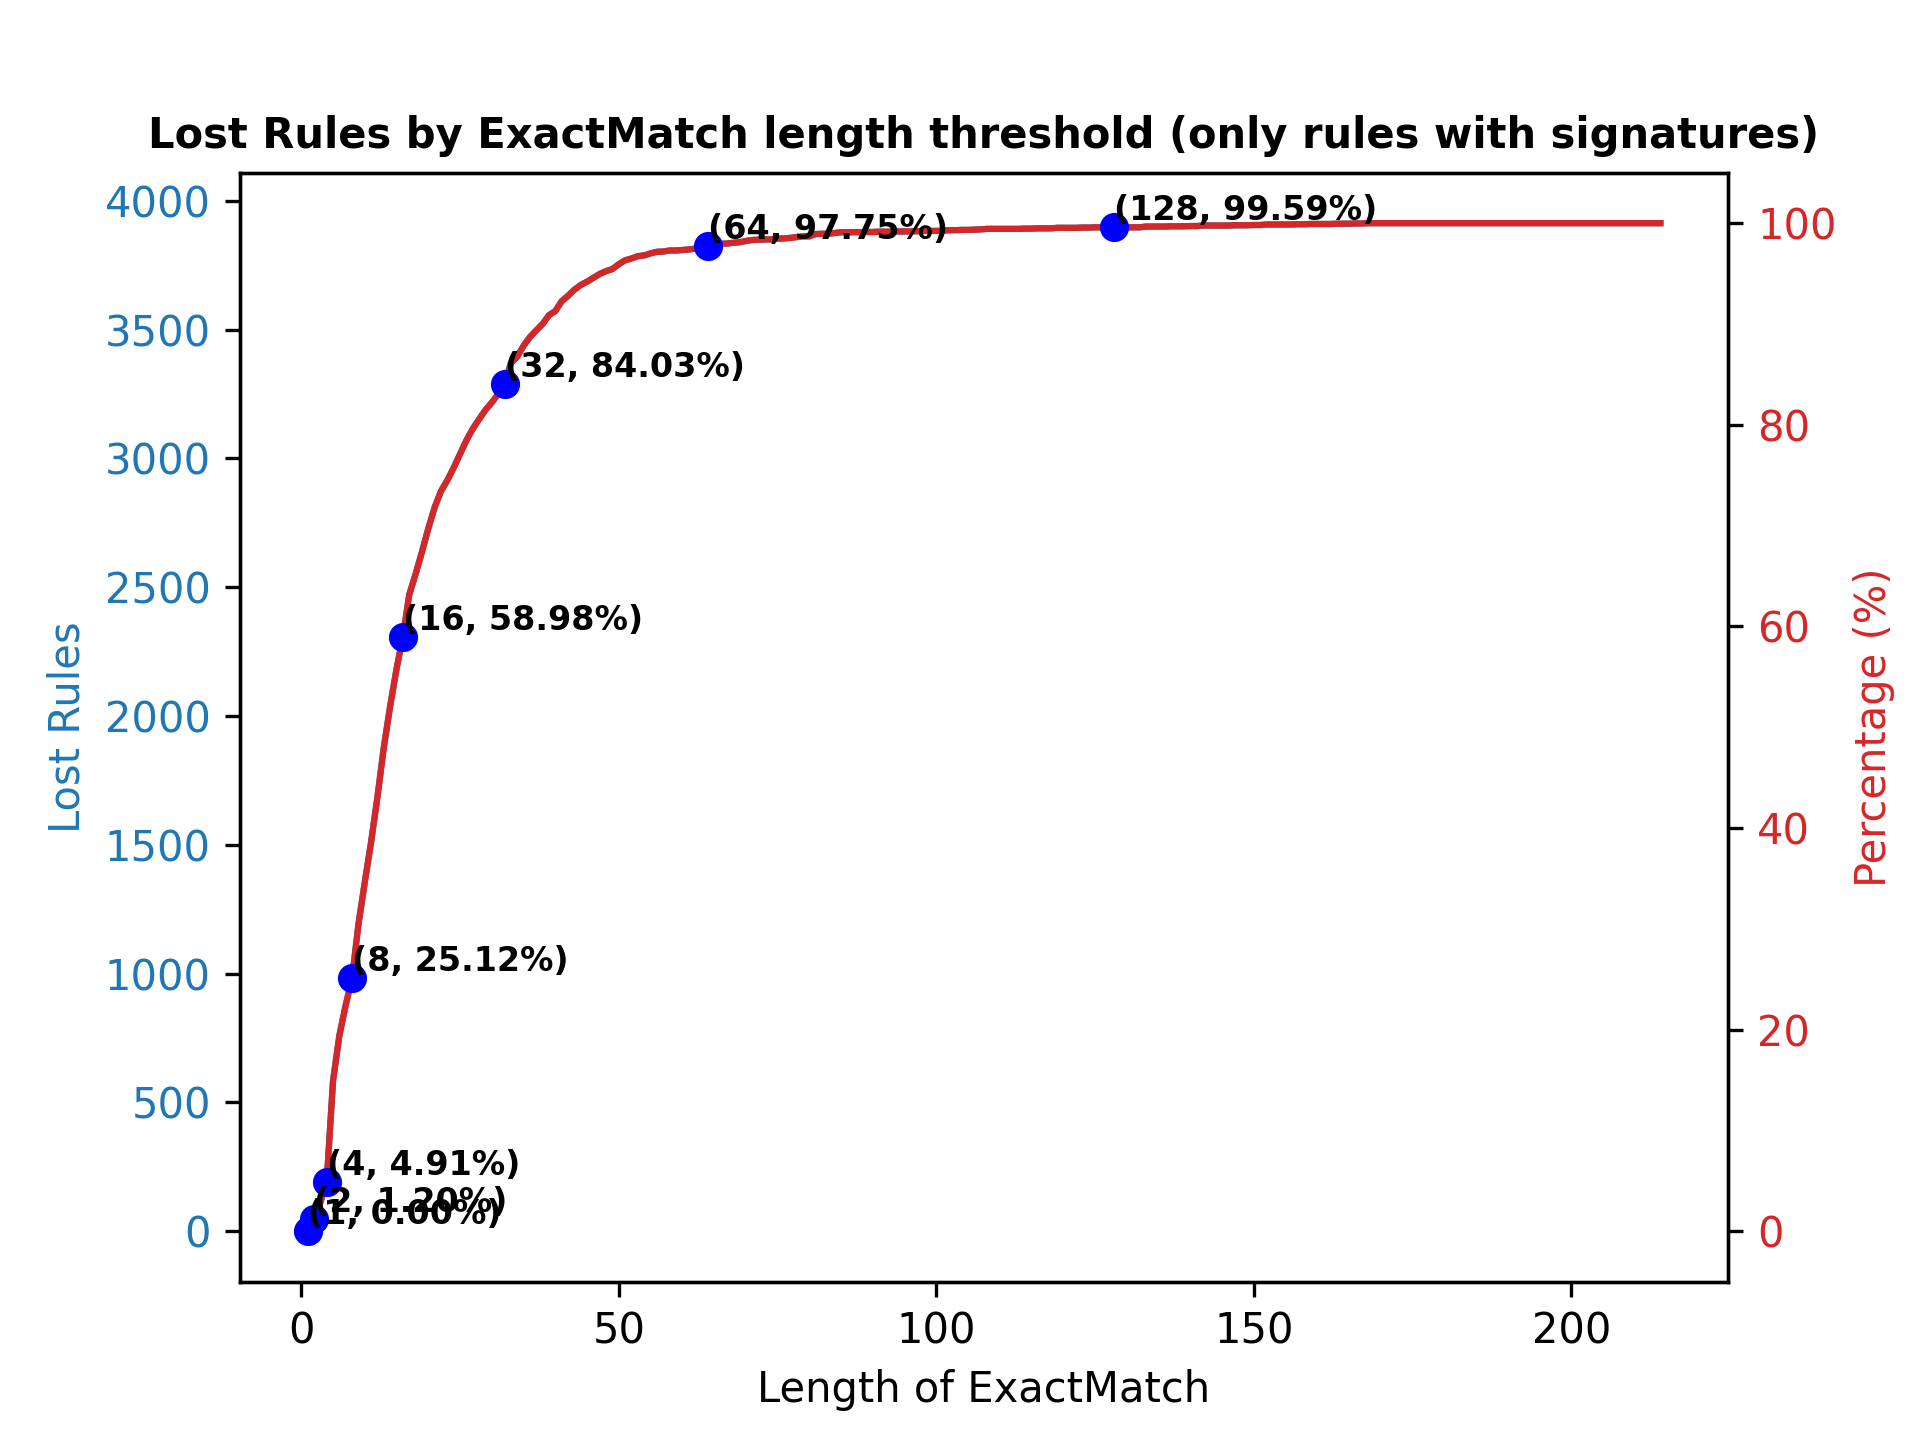
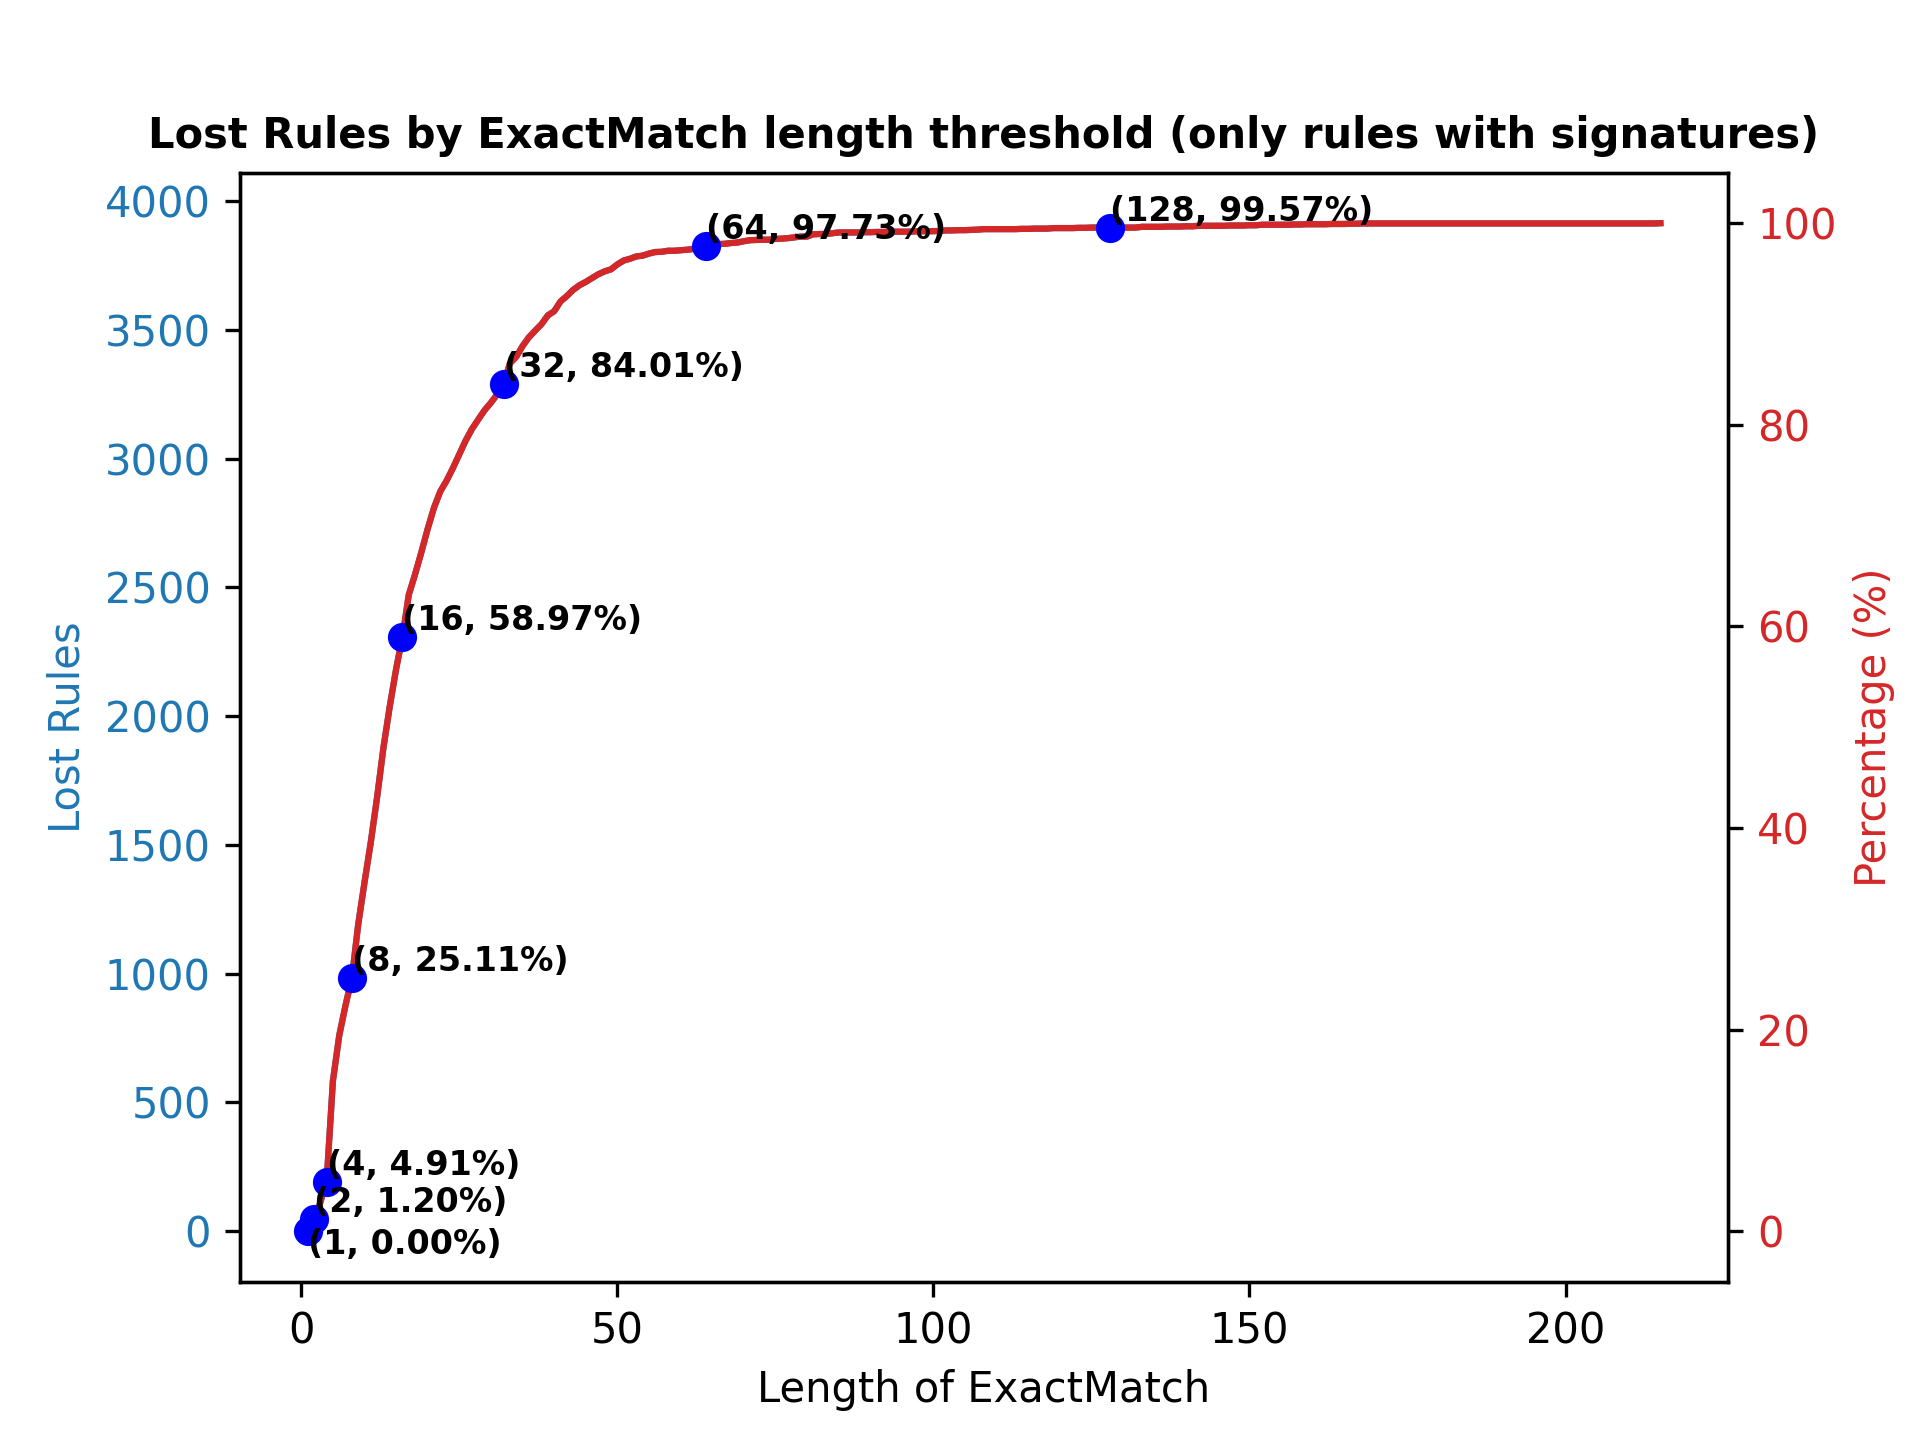
Itai (#8)
* update PartA:
* add signature_type to parta_data_by_exactmatch.json

* Update PartA:
* add cumulative plot for the exact matches length using matplotlib
* clean Data folder.

* Updated ResultsAnalysis.py: added plot_cummulative_exactmatch_length function to create a cumulative plot of ExactMatch Subsignatures lengths. Removed unused import. Updated log messages.

* Update ResultsAnalysis.py:
* Add plot for lost rules by exact_match length
* fix data extraction

* Update PartA
* Fix plotting functions and update log messages

* Update plot_lost_rules_by_exactmatch_length function to fix calculation bug

* Update ResultsAnalysis.py:
* fix error when trying to point on the plots.

* fix syntax errors from sync

* Fix PartA:
* update location of point x=1 in the lost_rules graph

diff --git a/PartA_Data_Process/ResultsAnalysis.py b/PartA_Data_Process/ResultsAnalysis.py
@@ -60,7 +60,10 @@ def plot_lost_rules_by_exactmatch_length(data_by_exactmatch, abs_save_path):
     for x_val in xticks:
         y_val = cumulative_percentages[x_val-1]
         plt.plot(x_val, y_val, 'bo')
-        plt.text(x_val, y_val, f'({x_val}, {y_val:.2f}%)', fontsize=8, fontweight='bold', ha='left', va='bottom')
+        if x_val == 1:
+            plt.text(x_val, y_val-3, f'({x_val}, {y_val:.2f}%)', fontsize=8, fontweight='bold', ha='left', va='bottom')
+        else:
+            plt.text(x_val, y_val, f'({x_val}, {y_val:.2f}%)', fontsize=8, fontweight='bold', ha='left', va='bottom')
 
     ax2.tick_params(axis='y', labelcolor=color)
     
